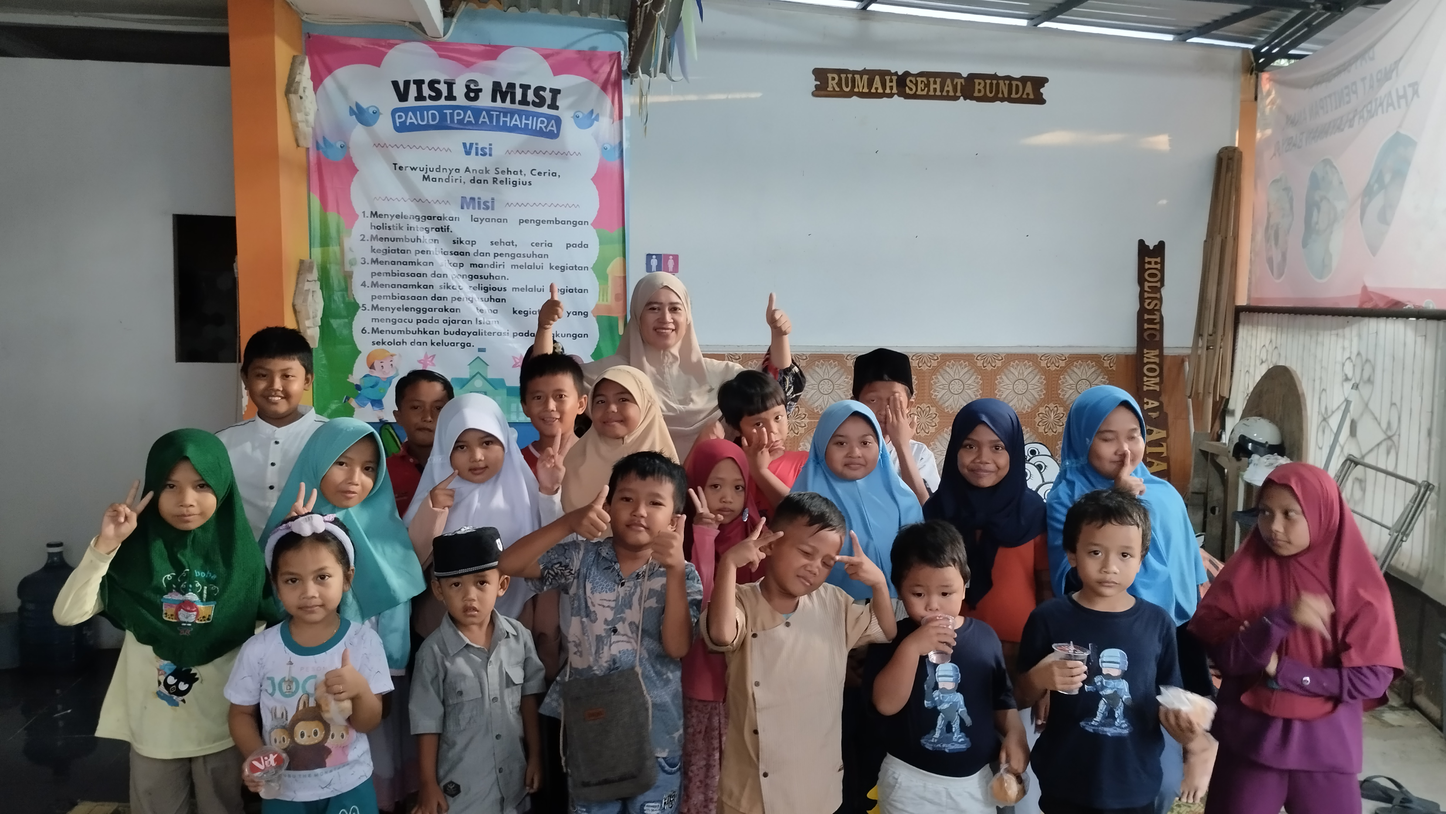
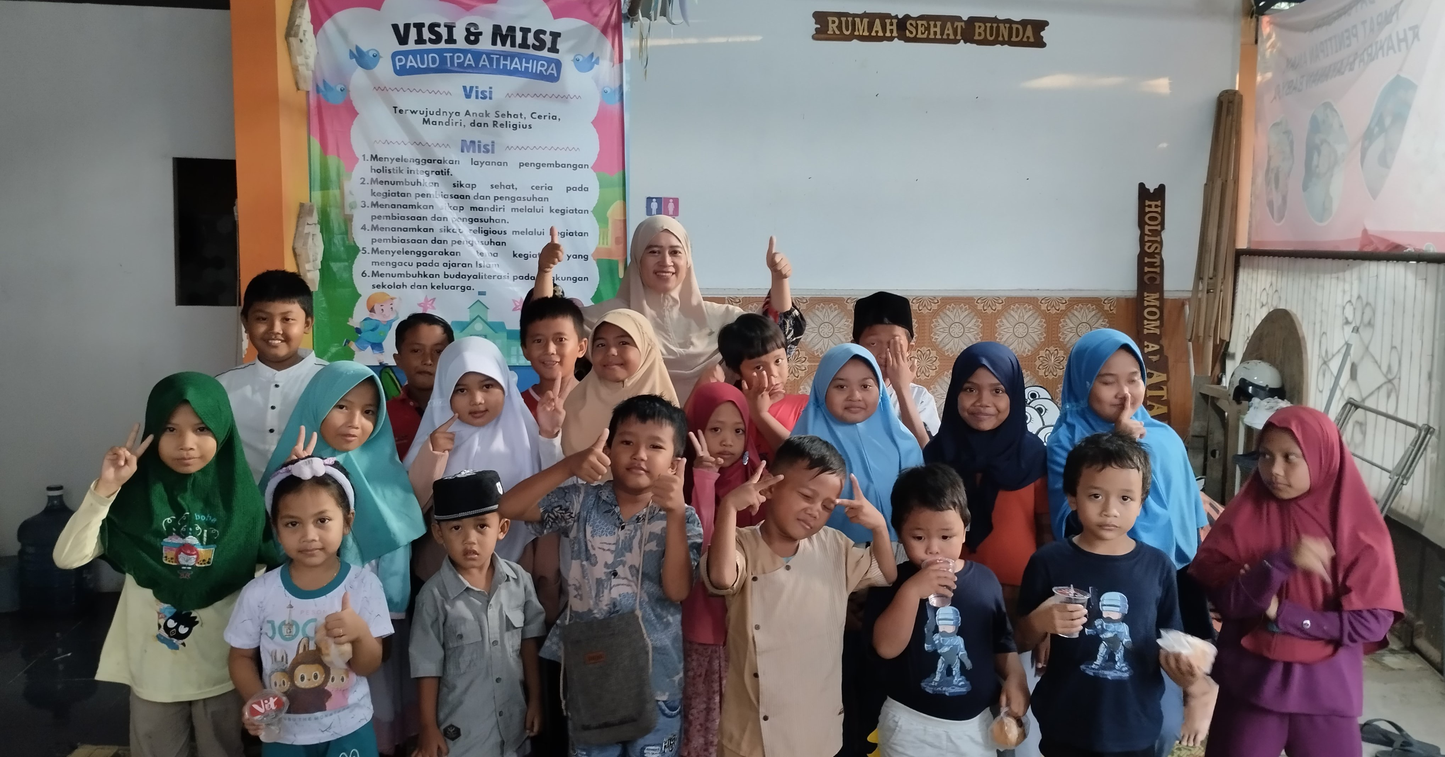
edit bg

diff --git a/application/views/ortu/dashboard.php b/application/views/ortu/dashboard.php
@@ -69,7 +69,7 @@
     <div class="container-fluid p-0 mb-5">
         <div class="owl-carousel header-carousel position-relative">
             <div class="owl-carousel-item position-relative">
-                <!-- <img class="img-fluid" src="<?= base_url("assets/users/") ?>img/foto paud.jpg" alt=""> -->
+                <img class="img-fluid" src="<?= base_url("assets/users/") ?>img/foto paud.jpg" alt="">
                 <div class="position-absolute top-0 start-0 w-100 h-100 d-flex align-items-center" style="background: rgba(24, 29, 56, .7);">
                     <div class="container">
                         <div class="row justify-content-start">
